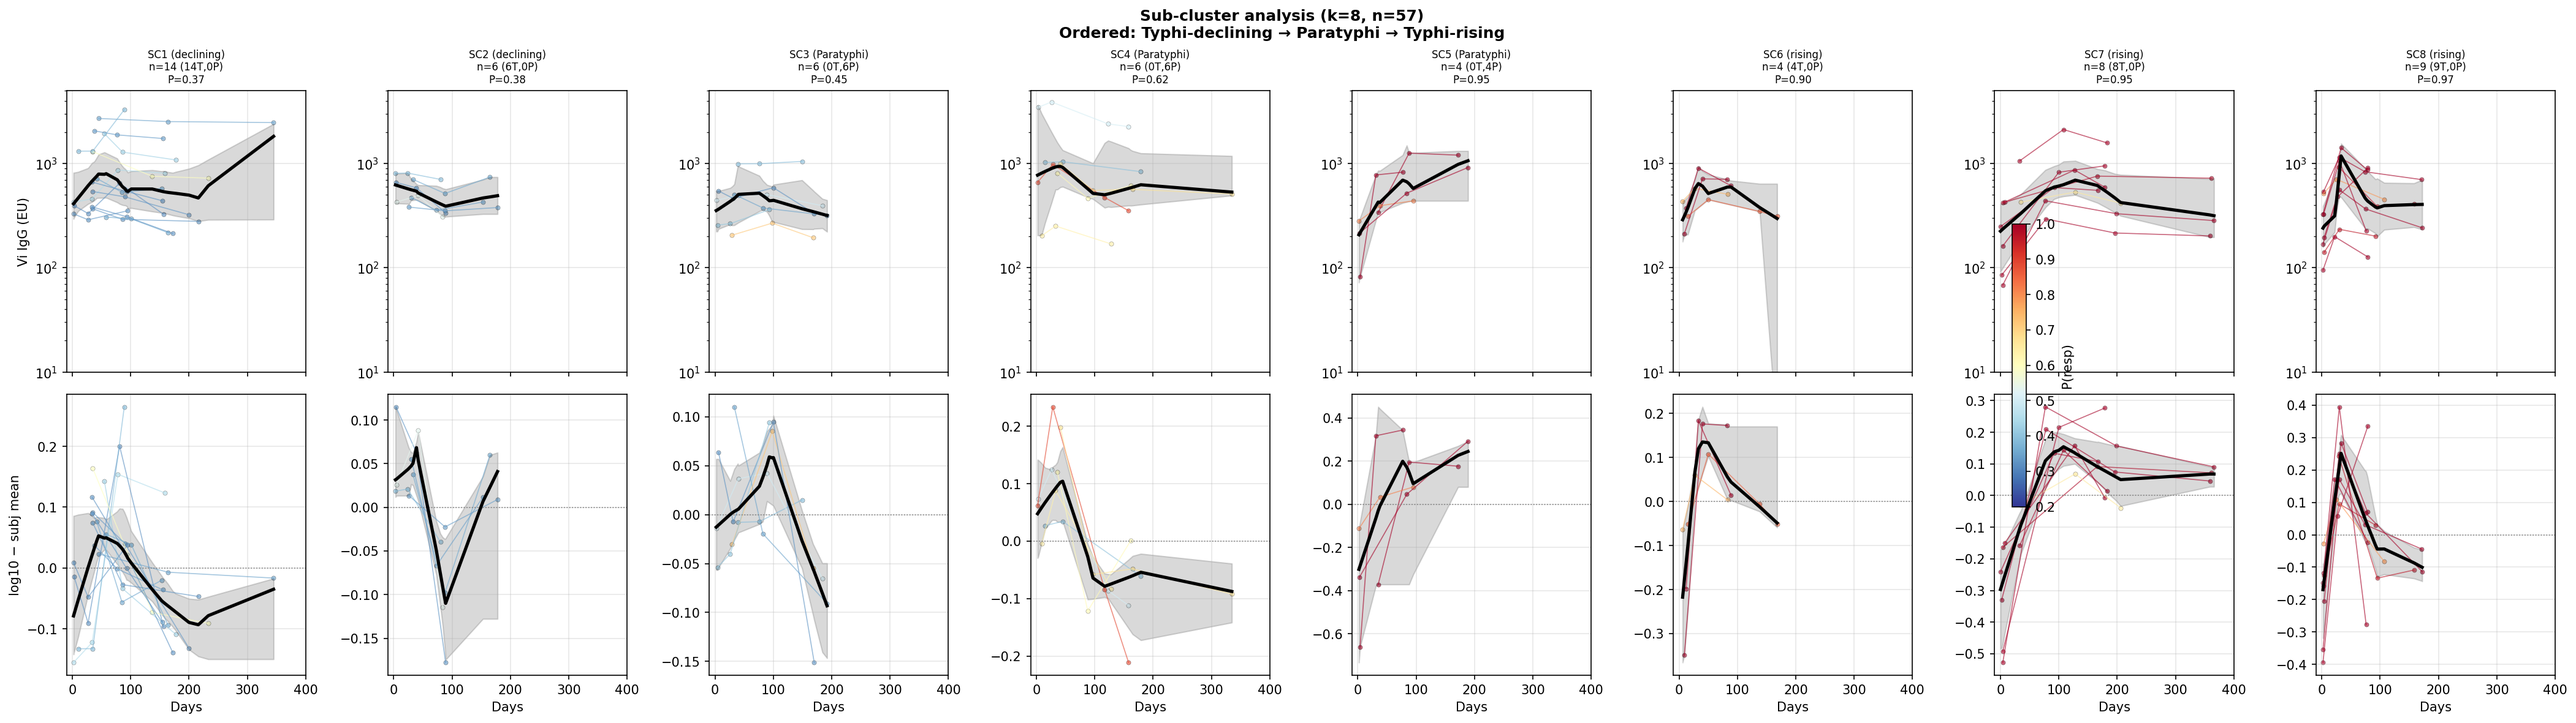
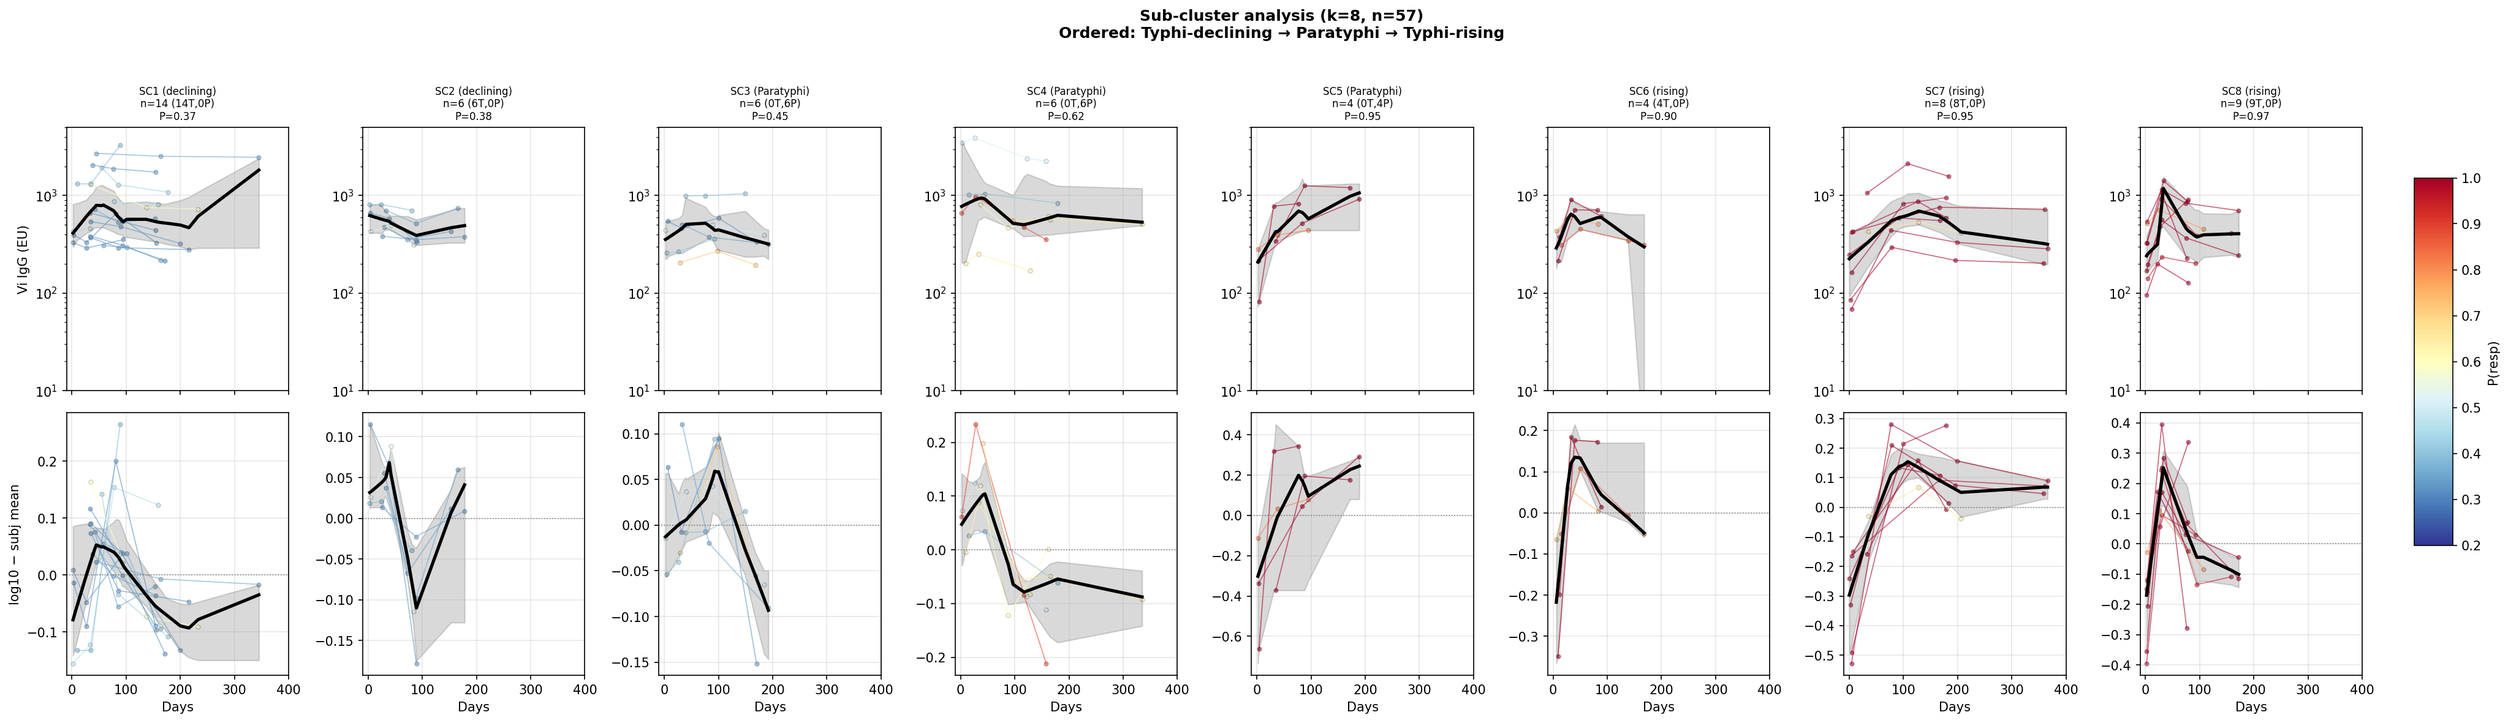
Fix colorbar placement: use fig.add_axes() in right margin
Place colorbar in dedicated axes outside the subplot grid using
fig.tight_layout(rect=[0,0,0.92,0.95]) + fig.add_axes([0.93,...]).
Fixes occlusion in both 12 and 12b figures.

diff --git a/metastudies/waning_after_infection/Aiemjoy2022_reanalysis/reanalysis/mixture_eda/12_enriched_clustering.py b/metastudies/waning_after_infection/Aiemjoy2022_reanalysis/reanalysis/mixture_eda/12_enriched_clustering.py
@@ -341,14 +341,15 @@ def main():
             if row_idx == 3:
                 ax.set_xlabel("Days since fever onset")
 
-    sm_cb = cm.ScalarMappable(norm=presp_norm, cmap=presp_cmap)
-    sm_cb.set_array([])
-    fig.colorbar(sm_cb, ax=axes, location="right", shrink=0.4, pad=0.06, label="P(responder)")
-
     fig.suptitle(f"Enriched clusters × serovar (n={n}, k={k_primary})\n"
                  f"Colored by P(resp), black = LOESS",
                  fontsize=13, fontweight="bold")
-    fig.tight_layout()
+    fig.tight_layout(rect=[0, 0, 0.92, 0.95])
+    # Place colorbar in the right margin, outside the subplot grid
+    cbar_ax = fig.add_axes([0.93, 0.25, 0.015, 0.5])
+    sm_cb = cm.ScalarMappable(norm=presp_norm, cmap=presp_cmap)
+    sm_cb.set_array([])
+    fig.colorbar(sm_cb, cax=cbar_ax, label="P(responder)")
     fig.savefig(OUT_DIR / "12_enriched_cluster_trajectories.png", dpi=150, bbox_inches="tight")
     plt.close()
     print("Saved 12_enriched_cluster_trajectories.png")

diff --git a/metastudies/waning_after_infection/Aiemjoy2022_reanalysis/reanalysis/mixture_eda/12b_subcluster_analysis.py b/metastudies/waning_after_infection/Aiemjoy2022_reanalysis/reanalysis/mixture_eda/12b_subcluster_analysis.py
@@ -220,14 +220,14 @@ def main():
             if row_idx == 1:
                 ax.set_xlabel("Days")
 
-    sm_cb = cm.ScalarMappable(norm=presp_norm, cmap=presp_cmap)
-    sm_cb.set_array([])
-    fig.colorbar(sm_cb, ax=axes, location="right", shrink=0.5, pad=0.04, label="P(resp)")
-
     fig.suptitle(f"Sub-cluster analysis (k={k}, n={n})\n"
                  f"Ordered: Typhi-declining → Paratyphi → Typhi-rising",
                  fontsize=12, fontweight="bold")
-    fig.tight_layout()
+    fig.tight_layout(rect=[0, 0, 0.93, 0.95])
+    cbar_ax = fig.add_axes([0.94, 0.25, 0.015, 0.5])
+    sm_cb = cm.ScalarMappable(norm=presp_norm, cmap=presp_cmap)
+    sm_cb.set_array([])
+    fig.colorbar(sm_cb, cax=cbar_ax, label="P(resp)")
     fig.savefig(OUT_DIR / "12b_subclusters.png", dpi=150, bbox_inches="tight")
     plt.close()
     print(f"\nSaved 12b_subclusters.png")
